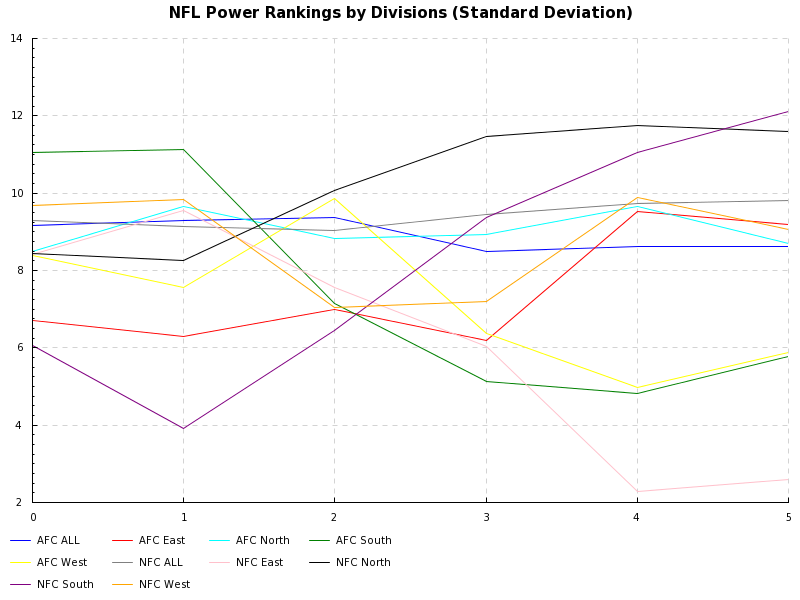
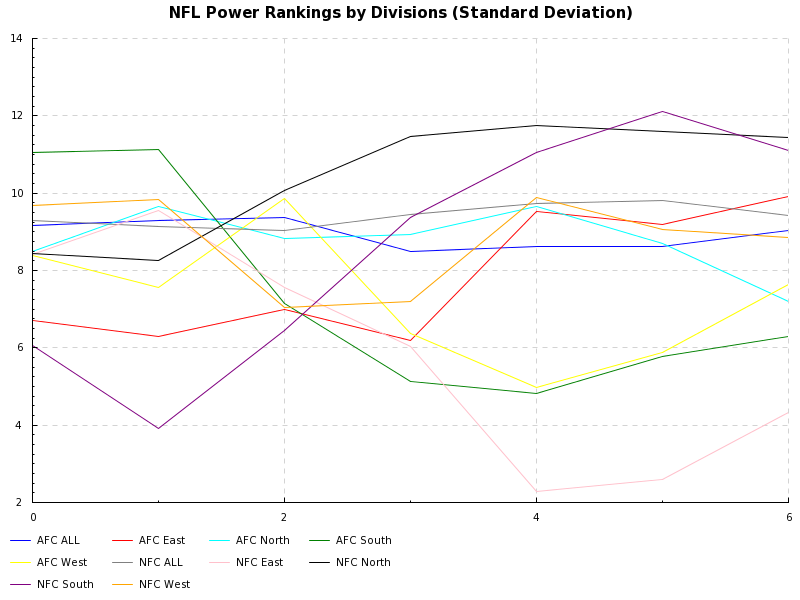
week 6.

diff --git a/README.md b/README.md
@@ -1,5 +1,22 @@
 ![average](https://github.com/mfine/nfl-divisions-power-rankings/blob/master/RESULTS-average.png)
 ![std dev](https://github.com/mfine/nfl-divisions-power-rankings/blob/master/RESULTS-std-dev.png)
+### Week-6
+
+```
+Division         Mean    Std Dev
+--------         ----    -------
+AFC East        12.00       9.92
+AFC North       14.25       7.19
+NFC West        14.75       8.84
+AFC West        16.00       7.65
+AFC ALL         16.50       9.03
+NFC ALL         16.50       9.43
+NFC East        16.75       4.32
+NFC South       17.00      11.11
+NFC North       17.50      11.43
+AFC South       23.75       6.30
+```
+
 ### Week-5
 
 ```
